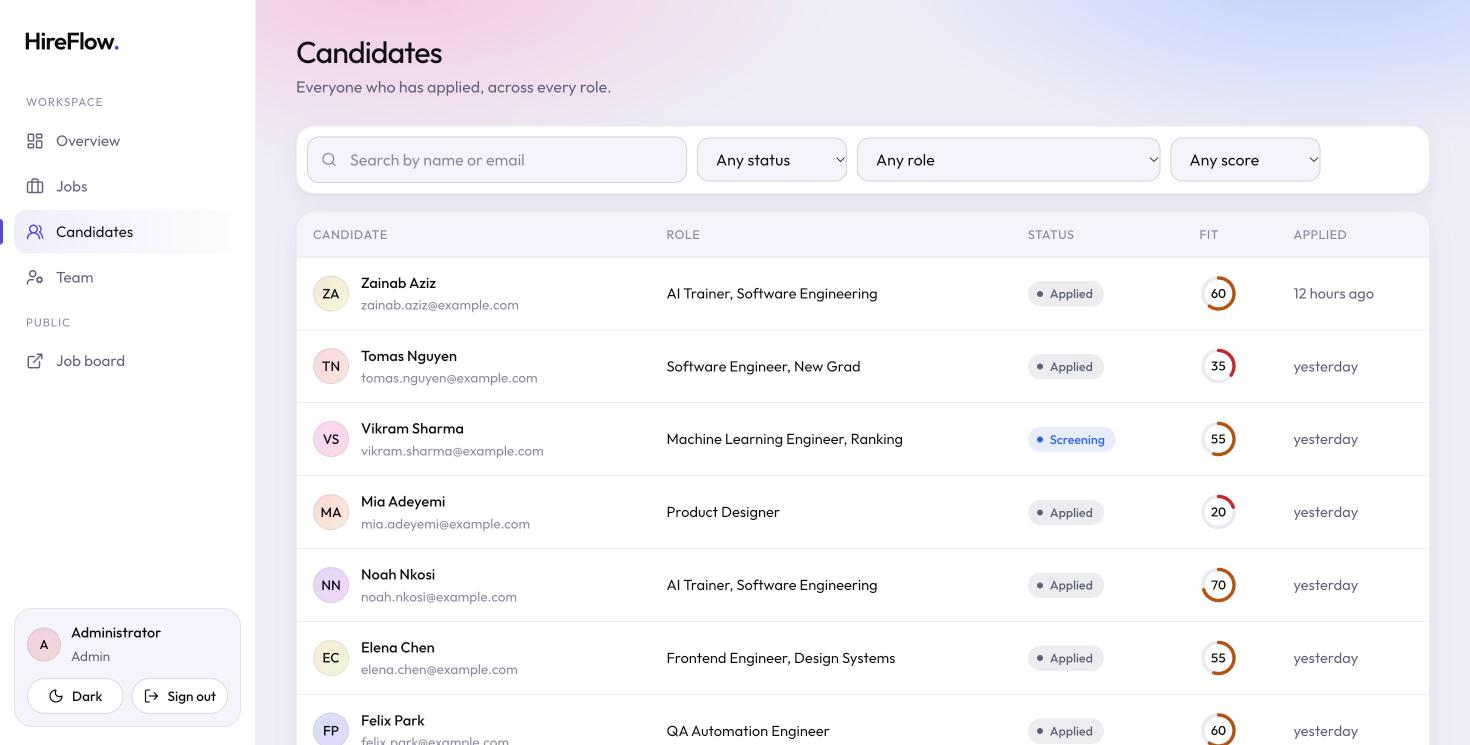
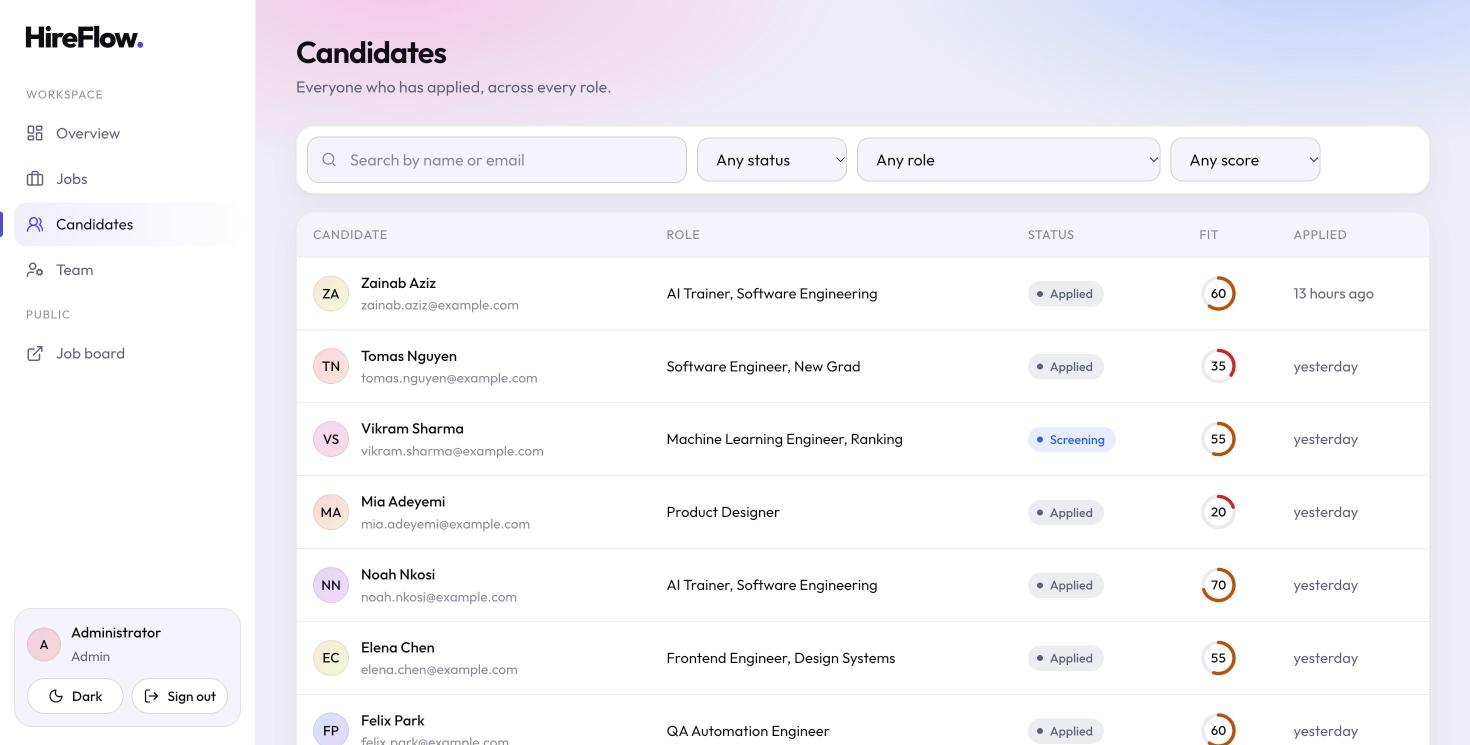
Give headings more weight, a step below the wordmark
Page titles, the hero, card and panel titles, board column names and dialog titles are heavier and tighter, so the
hierarchy reads at a glance. Body text, numbers and the sign-in page are unchanged. The README pictures are
recaptured from the deployed system.

diff --git a/web/src/styles/public.css b/web/src/styles/public.css
@@ -99,7 +99,7 @@
 }
 .pub-hero h1 {
   font-size: clamp(2.4rem, 5vw, 3.6rem);
-  font-weight: 400;
+  font-weight: 650;
   letter-spacing: -0.035em;
 }
 .pub-hero p {
@@ -222,7 +222,7 @@
 }
 .job-card h2 {
   font-size: 1.28rem;
-  font-weight: 450;
+  font-weight: 600;
   line-height: 1.25;
 }
 .job-card .team {
@@ -318,7 +318,7 @@
 }
 .job-head h1 {
   font-size: clamp(2rem, 4vw, 2.8rem);
-  font-weight: 400;
+  font-weight: 650;
   letter-spacing: -0.03em;
 }
 .meta {

diff --git a/web/src/pages/console/ApplicationPage.tsx b/web/src/pages/console/ApplicationPage.tsx
@@ -24,7 +24,7 @@ export function ApplicationPage() {
         <header className="row" style={{ gap: 16, marginBottom: 24 }}>
           <Avatar name={a.candidateName} size={56} />
           <div>
-            <h1 style={{ fontSize: '1.8rem', fontWeight: 450 }}>{a.candidateName}</h1>
+            <h1 style={{ fontSize: '1.8rem', fontWeight: 650 }}>{a.candidateName}</h1>
             <p className="muted">{a.candidateEmail}</p>
           </div>
         </header>

diff --git a/web/src/styles/console.css b/web/src/styles/console.css
@@ -200,7 +200,7 @@
 }
 .page-head h1 {
   font-size: 1.9rem;
-  font-weight: 450;
+  font-weight: 650;
   letter-spacing: -0.03em;
 }
 .page-head p {
@@ -772,7 +772,7 @@
   align-items: center;
   gap: 8px;
   font-size: 0.92rem;
-  font-weight: 500;
+  font-weight: 600;
 }
 .lane-head h3::before {
   content: '';

diff --git a/web/src/styles/ui.css b/web/src/styles/ui.css
@@ -271,7 +271,7 @@ button.chip {
 .panel h2,
 .panel-title {
   font-size: 1rem;
-  font-weight: 500;
+  font-weight: 600;
 }
 .panel-head {
   display: flex;

diff --git a/web/src/styles/base.css b/web/src/styles/base.css
@@ -29,7 +29,7 @@ h2,
 h3,
 h4 {
   margin: 0;
-  font-weight: 500;
+  font-weight: 600;
   letter-spacing: -0.015em;
   line-height: 1.2;
 }
